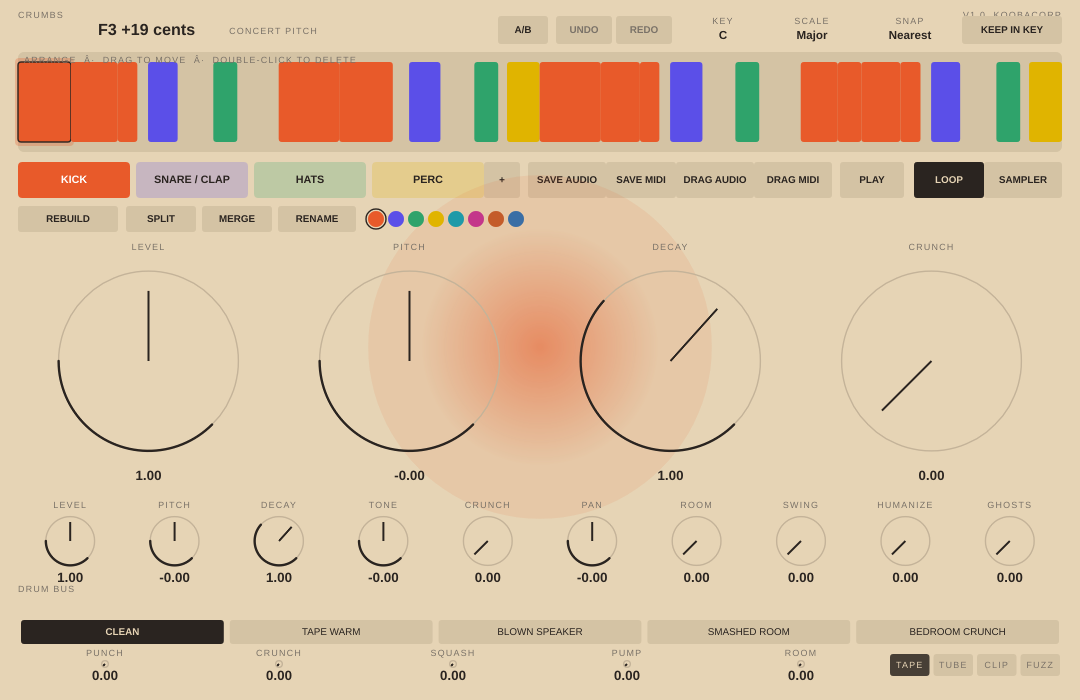
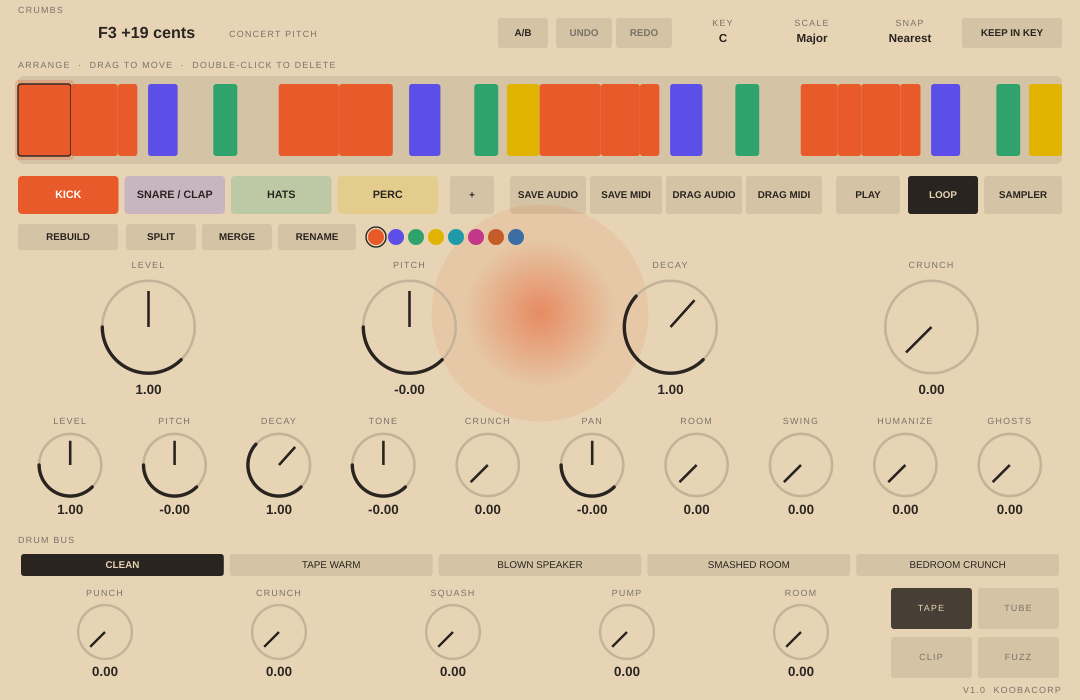
Polish CRUMBS UI layout and typography [skip ci]
Move the arrange hint above the slice strip and write its middle dots as UTF-8 so they no longer show as mojibake. Give the drum bus its own labelled row and draw the bus controls as proper small knobs. Keep the add-lane button clear of Save Audio, and tuck the catalogue type into the corners so it does not sit on Keep in key.

diff --git a/src/plugin/PluginEditor.cpp b/src/plugin/PluginEditor.cpp
@@ -44,17 +44,19 @@ CrumbsEditor::CrumbsEditor(CrumbsProcessor& p)
 CrumbsEditor::~CrumbsEditor() { stopTimer(); }
 
 void CrumbsEditor::layout() {
-    auto b = getLocalBounds().toFloat().reduced(18, 16);
-    topBar = b.removeFromTop(28);
-    b.removeFromTop(8);
-    timeline = b.removeFromTop(100);
+    auto b = getLocalBounds().toFloat().reduced(18, 18);
+    topBar = b.removeFromTop(30);
     b.removeFromTop(10);
-    laneBar = b.removeFromTop(36);
-    b.removeFromTop(8);
-    busRow = b.removeFromBottom(86);
+    hintRow = b.removeFromTop(14);
+    b.removeFromTop(4);
+    timeline = b.removeFromTop(88); // slice strip only; hint sits above it
+    b.removeFromTop(12);
+    laneBar = b.removeFromTop(38);
+    b.removeFromTop(10);
+    busRow = b.removeFromBottom(150);
+    b.removeFromBottom(10);
+    fineRow = b.removeFromBottom(112);
     b.removeFromBottom(8);
-    fineRow = b.removeFromBottom(96);
-    b.removeFromBottom(6);
     orbArea = b;
 
     auto t = topBar;
@@ -74,23 +76,29 @@ void CrumbsEditor::layout() {
 
     auto lb = laneBar;
     modeSamp = lb.removeFromRight(78);
+    lb.removeFromRight(6);
     modeLoop = lb.removeFromRight(70);
-    lb.removeFromRight(10);
+    lb.removeFromRight(8);
     btnPlay = lb.removeFromRight(64);
-    lb.removeFromRight(8);
-    btnDragM = lb.removeFromRight(78);
-    btnDragA = lb.removeFromRight(78);
-    btnSaveM = lb.removeFromRight(70);
-    btnSaveA = lb.removeFromRight(78);
-    lb.removeFromRight(8);
-    btnAdd = lb.removeFromRight(36);
+    lb.removeFromRight(14);
+    btnDragM = lb.removeFromRight(76);
+    lb.removeFromRight(4);
+    btnDragA = lb.removeFromRight(76);
+    lb.removeFromRight(4);
+    btnSaveM = lb.removeFromRight(72);
+    lb.removeFromRight(4);
+    btnSaveA = lb.removeFromRight(76);
+    lb.removeFromRight(16); // keep the + clear of the Save Audio cluster
+    btnAdd = lb.removeFromRight(44);
+    lb.removeFromRight(12);
     // remaining width: lane chips
     laneChips.clear();
     int nL = (int)proc.machine().lanes.size();
-    float cw = nL > 0 ? (lb.getWidth() - 6 * (nL - 1)) / juce::jmax(1, nL) : 80;
+    float gap = 6.f;
+    float cw = nL > 0 ? (lb.getWidth() - gap * (nL - 1)) / juce::jmax(1, nL) : 80;
     for (int i = 0; i < nL; ++i) {
         laneChips.push_back(lb.removeFromLeft(cw));
-        lb.removeFromLeft(6);
+        if (i + 1 < nL) lb.removeFromLeft(gap);
     }
 
     // rebuild + fine knobs depend on selected lane / rebuilt
@@ -142,23 +150,26 @@ void CrumbsEditor::layout() {
     place(fine, fineRow, false);
 
     auto br = busRow;
-    auto labs = br.removeFromTop(20);
-    (void)labs;
-    auto presets = br.removeFromTop(28);
+    busLabel = br.removeFromTop(16);
+    br.removeFromTop(4);
+    auto presets = br.removeFromTop(26);
     busBtns.clear();
     float bw = presets.getWidth() / 5.f;
     for (int i = 0; i < 5; ++i) busBtns.push_back(presets.removeFromLeft(bw).reduced(3, 2));
-    auto ctrls = br;
+    br.removeFromTop(6);
+    auto ctrls = br; // room for caption + dial + value
     std::vector<std::pair<juce::String,int>> busK = {{"Punch", G_PUNCH},{"Crunch", G_CRUNCH},{"Squash", G_SQUASH},{"Pump", G_PUMP},{"Room", G_BROOM}};
     float cw2 = ctrls.getWidth() / 6.f;
     for (int i = 0; i < 5; ++i) {
-        auto r = ctrls.removeFromLeft(cw2).reduced(6, 0);
+        auto r = ctrls.removeFromLeft(cw2).reduced(8, 2);
         knobs.push_back({busK[(size_t)i].first, busK[(size_t)i].second, r, false});
     }
     auto typ = ctrls;
     crunchTypes.clear();
-    float tw = typ.getWidth() / 4.f;
-    for (int i = 0; i < 4; ++i) crunchTypes.push_back(typ.removeFromLeft(tw).reduced(2, 8));
+    // stack the four crunch types in a 2x2 so they stay readable beside the knobs
+    auto typTop = typ.removeFromTop(typ.getHeight() * 0.5f);
+    for (int i = 0; i < 2; ++i) crunchTypes.push_back(typTop.removeFromLeft(typTop.getWidth() / (2 - i)).reduced(3, 4));
+    for (int i = 0; i < 2; ++i) crunchTypes.push_back(typ.removeFromLeft(typ.getWidth() / (2 - i)).reduced(3, 4));
 }
 
 void CrumbsEditor::resized() { layout(); }
@@ -172,9 +183,10 @@ void CrumbsEditor::paint(juce::Graphics& g) {
     int sel = juce::jlimit(0, juce::jmax(0, (int)m.lanes.size() - 1), m.selectedLane);
     juce::Colour laneC = m.lanes.empty() ? muted() : palCol(m.lanes[(size_t)sel].colour);
 
-    // corner catalogue type
-    tiny(g, juce::Rectangle<float>(18, 8, 140, 14), "CRUMBS", muted(), juce::Justification::centredLeft);
-    tiny(g, juce::Rectangle<float>((float)getWidth() - 160, 8, 142, 14), "V1.0  KOOBACORP", muted(), juce::Justification::centredRight);
+    // corner catalogue type — top-left and bottom-right, clear of the top controls
+    tiny(g, juce::Rectangle<float>(18, 4, 140, 12), "CRUMBS", muted(), juce::Justification::centredLeft);
+    tiny(g, juce::Rectangle<float>((float)getWidth() - 168, (float)getHeight() - 16, 150, 12),
+         "V1.0  KOOBACORP", muted(), juce::Justification::centredRight);
 
     // top controls
     auto drawBtn = [&](juce::Rectangle<float> r, const juce::String& t, bool on, bool hi = false) {
@@ -233,7 +245,7 @@ void CrumbsEditor::paint(juce::Graphics& g) {
         float x0 = timeline.getX() + timeline.getWidth() * e.destStart / (float)N;
         int len = juce::jmax(e.srcEnd - e.srcStart, (int)(0.03 * (m.original.sr > 0 ? m.original.sr : 44100)));
         float x1 = timeline.getX() + timeline.getWidth() * (e.destStart + len) / (float)N;
-        auto r = juce::Rectangle<float>(x0, timeline.getY() + 10, juce::jmax(4.f, x1 - x0), timeline.getHeight() - 20);
+        auto r = juce::Rectangle<float>(x0, timeline.getY() + 8, juce::jmax(4.f, x1 - x0), timeline.getHeight() - 16);
         auto c = palCol(m.lanes[(size_t)e.lane].colour);
         if (i == m.selectedEvent) {
             g.setColour(c.withAlpha(0.28f));
@@ -246,7 +258,12 @@ void CrumbsEditor::paint(juce::Graphics& g) {
             g.drawRoundedRectangle(r, 3.f, 1.4f);
         }
     }
-    tiny(g, timeline.withHeight(12).translated(6, 2), "Arrange  ·  drag to move  ·  double-click to delete", muted(), juce::Justification::centredLeft);
+    {
+        // Middle dot via UTF-8 so it cannot be read as Latin-1 ("Â·").
+        const juce::String hint (juce::CharPointer_UTF8 (
+            "Arrange  \xc2\xb7  drag to move  \xc2\xb7  double-click to delete"));
+        tiny(g, hintRow, hint, muted(), juce::Justification::centredLeft);
+    }
 
     // lane chips
     for (int i = 0; i < (int)laneChips.size(); ++i) {
@@ -296,24 +313,27 @@ void CrumbsEditor::paint(juce::Graphics& g) {
         if (k.param == lp(sel, LP_PITCH) || k.param == lp(sel, LP_KTUNE) || k.param == G_CRTYPE) {}
         valueFont(g, valR, vs, ink());
         float rad = juce::jmin(r.getWidth(), r.getHeight()) * 0.42f;
+        rad = juce::jmin(rad, juce::jmin(r.getWidth(), r.getHeight()) * 0.5f - 2.f);
+        rad = juce::jmax(rad, 14.f);
         auto cx = r.getCentre();
+        float sw = juce::jlimit(1.6f, 2.6f, rad * 0.09f);
         g.setColour(line());
-        g.drawEllipse(cx.x - rad, cx.y - rad, rad * 2, rad * 2, 1.4f);
+        g.drawEllipse(cx.x - rad, cx.y - rad, rad * 2, rad * 2, sw);
         float a0 = juce::MathConstants<float>::pi * 0.75f;
         float a1 = juce::MathConstants<float>::pi * 2.25f;
         float a = a0 + nrm * (a1 - a0);
         juce::Path arc;
         arc.addCentredArc(cx.x, cx.y, rad, rad, 0, a0, a, true);
         g.setColour(k.rebuild ? laneC : ink());
-        g.strokePath(arc, juce::PathStrokeType(2.4f, juce::PathStrokeType::curved, juce::PathStrokeType::rounded));
+        g.strokePath(arc, juce::PathStrokeType(sw + 0.8f, juce::PathStrokeType::curved, juce::PathStrokeType::rounded));
         g.setColour(ink());
-        g.drawLine(cx.x, cx.y, cx.x + rad * 0.78f * std::cos(a), cx.y + rad * 0.78f * std::sin(a), 2.f);
+        g.drawLine(cx.x, cx.y, cx.x + rad * 0.78f * std::cos(a), cx.y + rad * 0.78f * std::sin(a), sw);
     };
     // only fine + big + bus knobs already in knobs[]
     for (auto& k : knobs) drawKnob(k);
 
     // bus
-    tiny(g, busRow.withHeight(14).translated(0, -16), "Drum bus", muted(), juce::Justification::centredLeft);
+    tiny(g, busLabel, "Drum bus", muted(), juce::Justification::centredLeft);
     for (int i = 0; i < (int)busBtns.size(); ++i) {
         bool on = (m.bus.preset == i);
         g.setColour(on ? ink() : wash());

diff --git a/src/plugin/PluginEditor.h b/src/plugin/PluginEditor.h
@@ -30,7 +30,7 @@ private:
     };
     Hit hitTest(juce::Point<float>) const;
     void layout();
-    juce::Rectangle<float> timeline, laneBar, orbArea, knobRow, fineRow, busRow, topBar;
+    juce::Rectangle<float> timeline, hintRow, laneBar, orbArea, knobRow, fineRow, busRow, busLabel, topBar;
     juce::Rectangle<float> btnAB, btnUndo, btnRedo, btnPlay, btnRebuild, btnAdd, btnSplit, btnMerge;
     juce::Rectangle<float> btnSaveA, btnSaveM, btnDragA, btnDragM, btnKeep, btnRename;
     juce::Rectangle<float> keyBox, scaleBox, snapBox, modeLoop, modeSamp;
